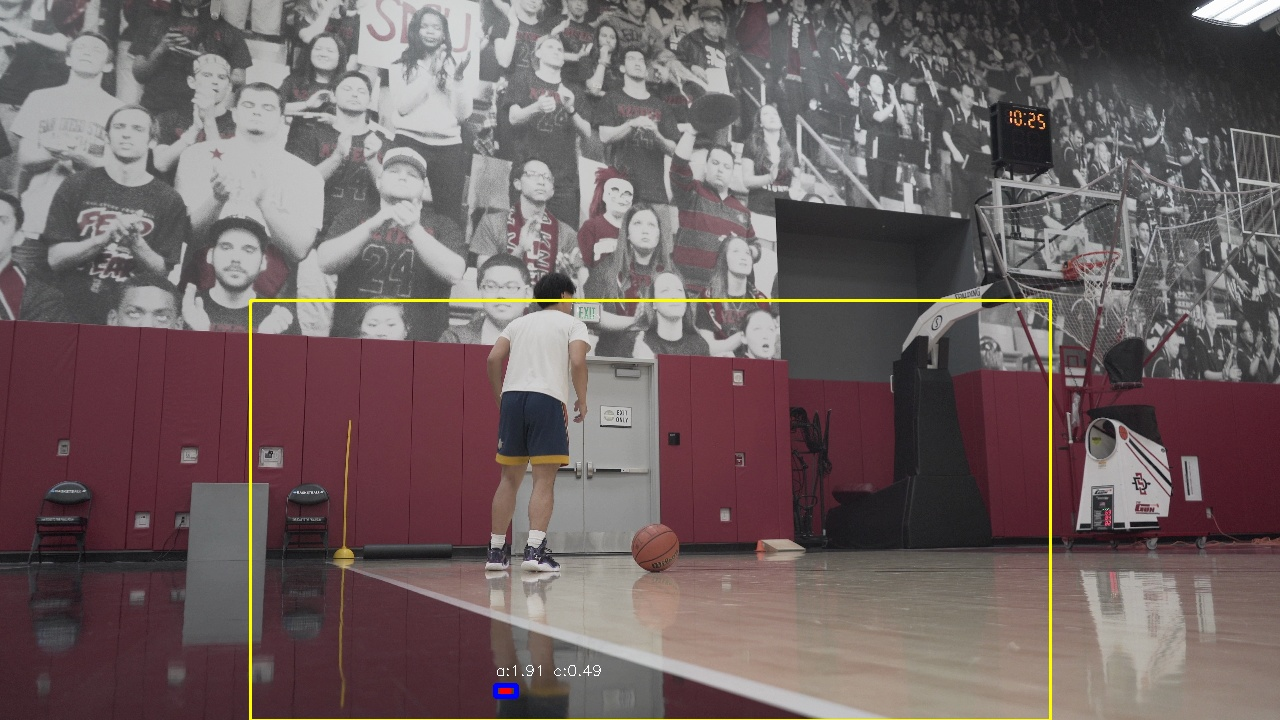
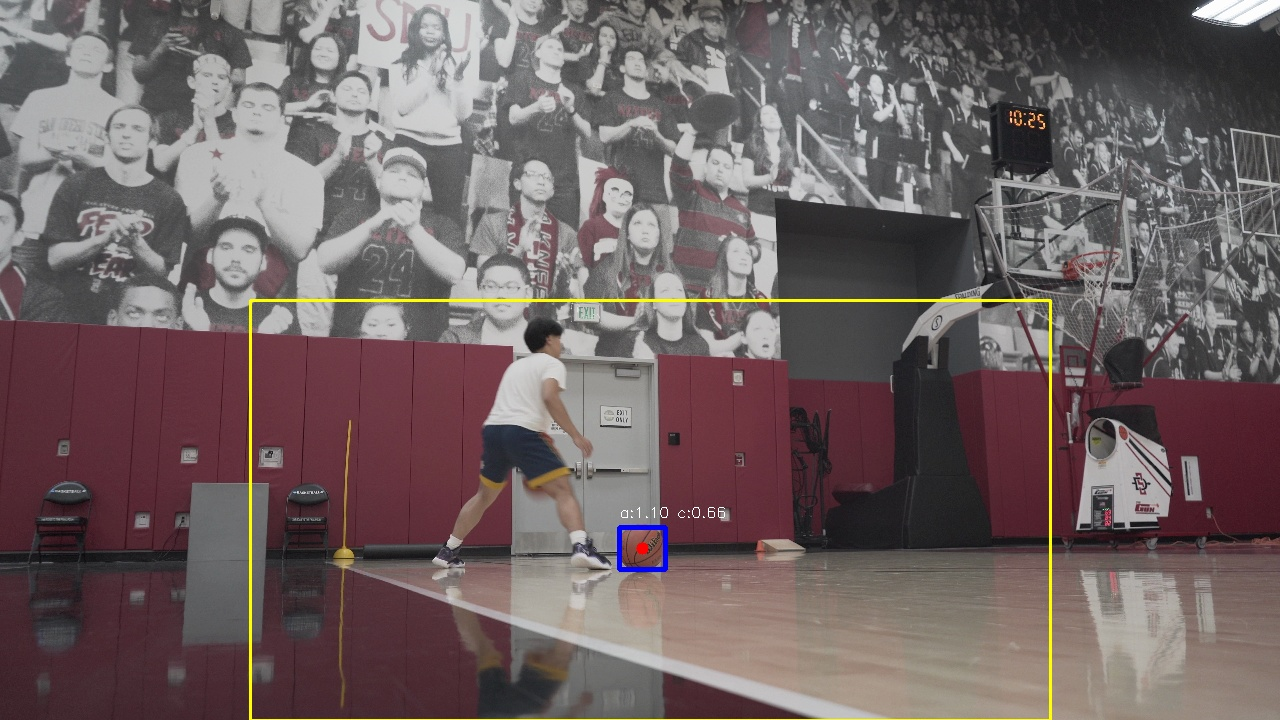
Working on ball path

Changed region(s): [[0.3438, 0.3667, 0.5625, 1.0]]

diff --git a/src/main.py b/src/main.py
@@ -8,6 +8,11 @@ clicked_frame = None
 def on_mouse(event, x, y, flags, param):
     global clicked_frame
 
+    # protect agaisnt accidental clicks before a frame is assigned
+    if clicked_frame is None:
+        print("No frame available for sampling yet.")
+        return
+
     if event == cv.EVENT_LBUTTONDOWN:
         bgr_pixel = clicked_frame[y, x]
         hsv_frame = cv.cvtColor(clicked_frame, cv.COLOR_BGR2HSV)
@@ -37,6 +42,7 @@ def on_mouse(event, x, y, flags, param):
 
 
 def playVideoFrameFile():
+    global clicked_frame
     # 1. set the video path
     video_path = "data/raw/trimmedJumper.mp4"
 
@@ -68,6 +74,8 @@ def playVideoFrameFile():
 
     display_mode = "frame"
 
+    # Track the ball_path
+    ball_path = []
     # 4. Repeatedly read the next frame
     while True:
         ret, frame = cap.read()
@@ -97,10 +105,10 @@ def playVideoFrameFile():
         roi = frame[roi_y1: roi_y2, roi_x1:roi_x2]
 
         # Updated lower orange range it was more yellow before
-        lower_orange = np.array([6, 110, 80])
+        lower_orange = np.array([2, 100, 90])
 
         # Define Upper orange range
-        upper_orange = np.array([18, 255, 255])
+        upper_orange = np.array([12, 255, 255])
 
         # # convert roi to hsv, not the full frame
         # Convert from BGR to HSV
@@ -156,6 +164,9 @@ def playVideoFrameFile():
 
             cv.circle(debug_frame, (center_x, center_y), 6, (0, 0, 255), - 1)
 
+            # When a contour is a ball candidate append it into our list
+            ball_path.append((center_x, center_y))
+
             # print circularity
             print(f"area={area:.1f}, circularity={circularity:.2f}",
                   f"w={w}, h={h}, aspect_ratio={aspect_ratio:.2f}")
@@ -180,6 +191,8 @@ def playVideoFrameFile():
 
         if display_mode == "frame":
             cv.imshow("ShotTracker", debug_frame)
+            clicked_frame = frame.copy()
+            cv.setMouseCallback("ShotTracker", on_mouse)
 
         elif display_mode == "mask":
             cv.imshow("ShotTracker", mask)

diff --git a/LEARNING_LOG.md b/LEARNING_LOG.md
@@ -727,3 +727,47 @@ Example tuning idea:
 lower_orange = np.array([5, 140, 120])
 upper_orange = np.array([18, 255, 255])
 ```
+
+# Lesson 32 — Parameter Tuning Often Overshoots
+
+When tuning HSV values, it is common to overshoot.
+
+Example:
+
+- broad range → too many false positives
+- narrow range → target disappears
+
+This does not mean HSV tuning failed. It means the range needs to be adjusted toward the middle.
+
+A good tuning strategy is:
+
+1. make one small change
+2. test the result
+3. compare what improved and what was lost
+4. adjust gradually
+
+# Lesson 33 — Measure the Real Pixel Values Before Guessing
+
+When color thresholds are hard to tune, a better approach is to inspect the actual color values of the target object.
+
+Instead of guessing HSV ranges, we can sample pixels directly from the frame.
+
+Best practice:
+
+- pause on a frame where the object is visible
+- click on the object
+- print BGR and HSV values
+- average a small patch instead of using only one pixel
+
+This makes threshold tuning data-driven instead of guess-based.
+
+# Lesson 34 — Python Scope Can Break Debug Tools
+
+A variable defined outside a function is global.
+
+Example:
+
+```python
+clicked_frame = None
+```
+
